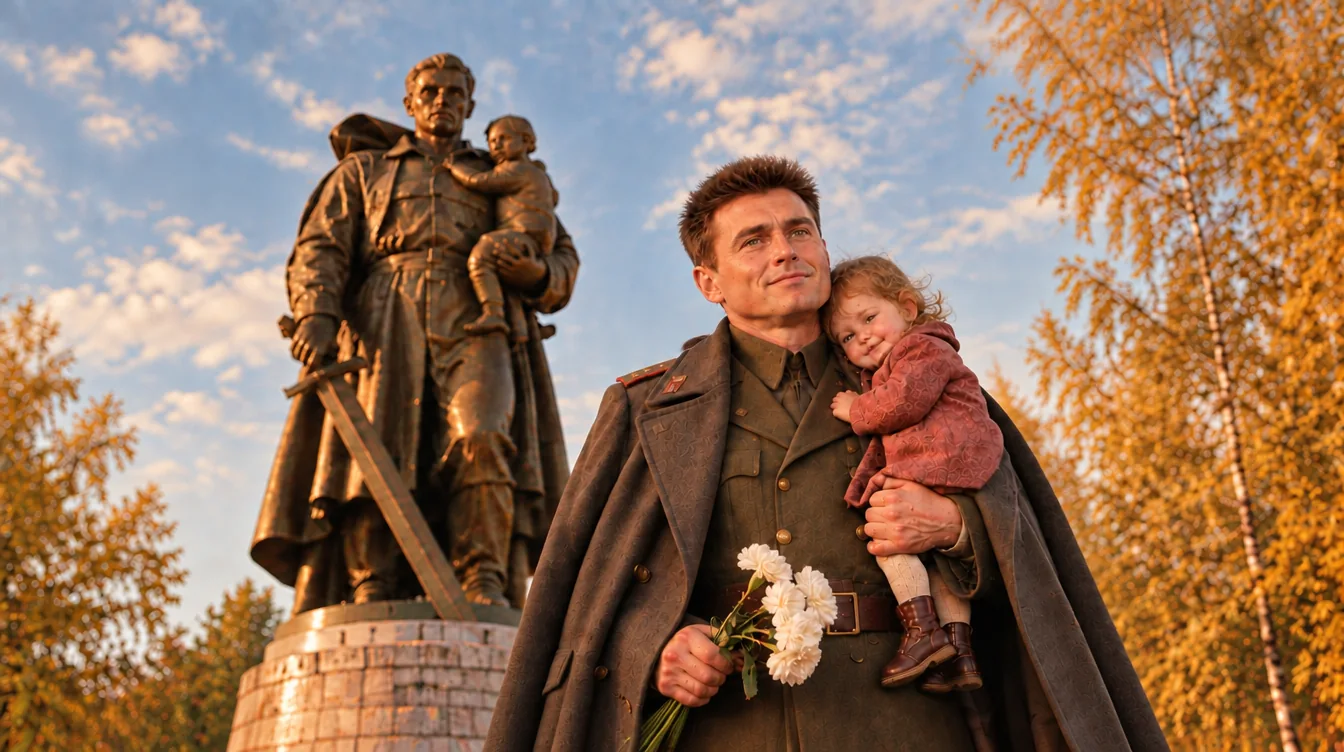
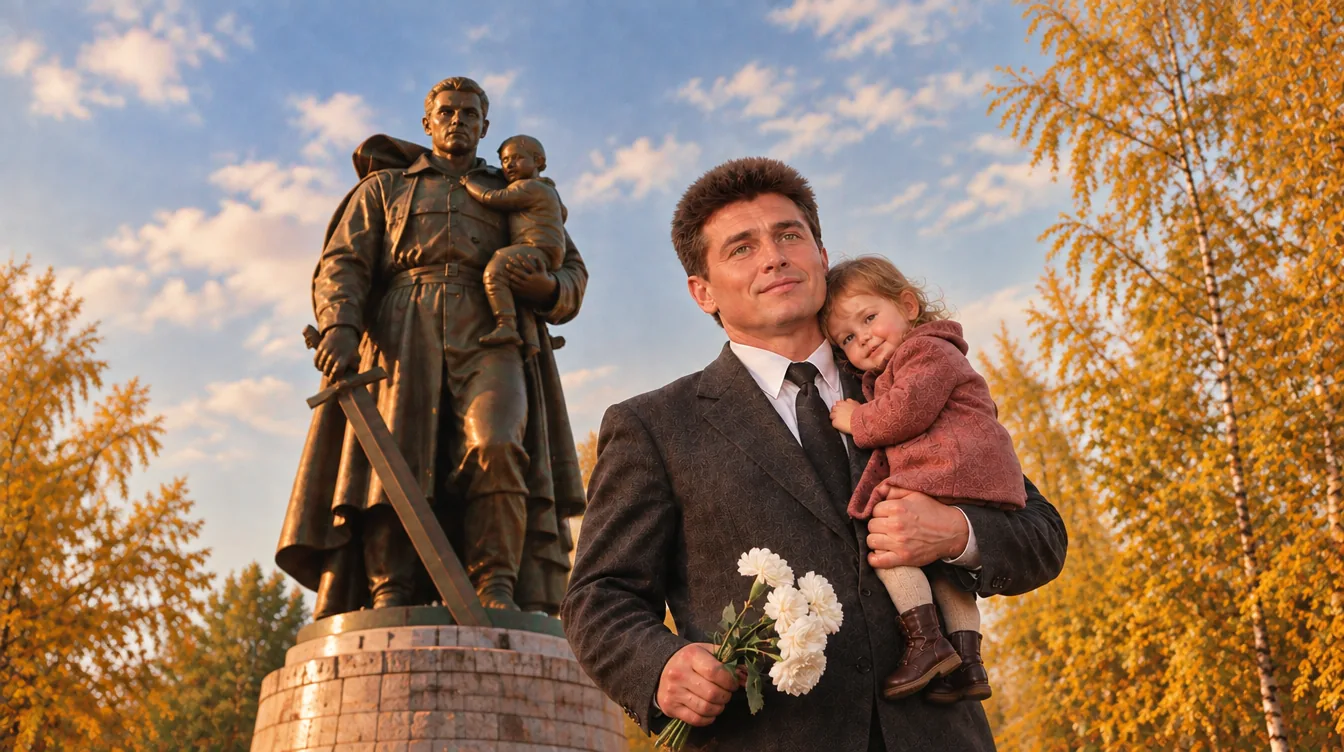
Treptow : Valkov en civil (cohérent avec la dédicace « plus d'uniforme »)

diff --git a/index.html b/index.html
@@ -451,14 +451,14 @@
 
       <div class="stat rev" id="treptow">
         <figure class="frame" style="margin:0"><div class="tape"></div>
-          <div class="img"><img src="images/statue-treptow-valkov.webp" alt="Sergueï Valkov, tête nue, manteau d'officier ouvert, tient une fillette dans son bras gauche et des œillets blancs dans la main droite, devant la statue du soldat soviétique portant un enfant, à Treptow" loading="lazy" width="1344" height="752"></div>
+          <div class="img"><img src="images/statue-treptow-valkov.webp" alt="Sergueï Valkov, en costume civil, tient une fillette dans son bras gauche et des œillets blancs dans la main droite, devant la statue du soldat soviétique portant un enfant, à Treptow" loading="lazy" width="1344" height="752"></div>
           <div class="cap"><span>réf. <b>SD‑ST3</b></span><span>Berlin‑Est · Treptow</span></div></figure>
         <div>
           <span class="no">Statue n° 3 · Berlin‑Est</span>
           <h3>Et de l'autre côté du Mur…</h3>
           <p>Avril 1945. Berlin brûle. Au milieu des tirs, le sergent soviétique Nikolaï Masalov entend pleurer un enfant : une petite Allemande de trois ans, seule, dont la mère a disparu. Il traverse le feu, la prend dans ses bras et la ramène à l'abri. L'enfant de l'ennemi.</p>
           <p>Quatre ans plus tard, le sculpteur Evgueni Voutchetitch fait de ce geste un géant de bronze, à Treptow, à l'Est de la ville : un soldat qui ne brandit pas son épée — il porte une enfant.</p>
-          <p>Quelques jours après les photos de Charlottenburg, un tirage nous est parvenu de l'Est. Sergueï Valkov, l'officier qui chantait avec Sophie à Moscou, pose au pied du soldat. Tête nue comme lui, le manteau ouvert comme sa cape. Dans son bras, une fillette. Et là où le bronze tient l'épée, Valkov tient des œillets blancs.</p>
+          <p>Quelques jours après les photos de Charlottenburg, un tirage nous est parvenu de l'Est. Sergueï Valkov, l'officier qui chantait avec Sophie à Moscou, pose au pied du soldat. En costume civil, sans uniforme ni aucun insigne. Dans son bras, comme le soldat de bronze, une fillette. Et là où le bronze tient l'épée, Valkov tient des œillets blancs.</p>
           <p class="geste">Sophie console un captif à l'Ouest. Valkov lui répond à l'Est — dans la seule langue que les murs ne savent pas censurer : celle des statues.</p>
           <p>Qui est l'enfant&nbsp;? Qui a pris la photo&nbsp;? Comment le tirage a‑t‑il franchi le Mur&nbsp;? Personne ne le sait. Mais la conversation a commencé.</p>
         </div>
